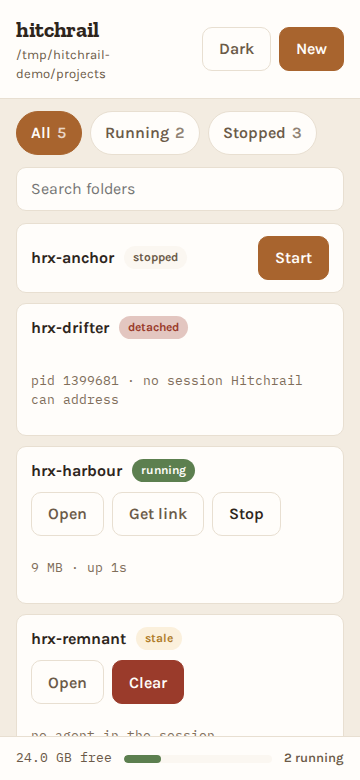
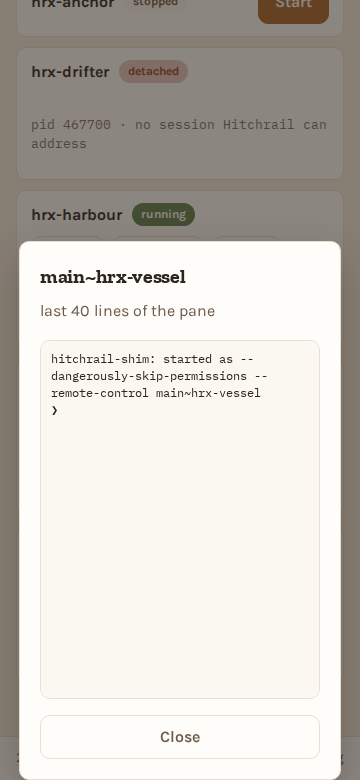
test(e2e): a capture that could not fail published the wrong screenshot for months
#215, the half that belongs to this phase. The pid half is a decision and is
left open on the ticket.

`phone-logs.png` was a copy of `phone-list.png`, verified against the committed
bytes rather than by eye. **The cause is one word.** `app.js:440` names the
control `Open`; the capture looked for `Logs`. So `logs.count()` was zero on
every run, the click was guarded rather than asserted, and the tier photographed
whatever was on screen and passed.

The assertion in this tier IS the picture, so a picture nothing checks is the
same rotten green as a test with no assertion. `_shoot` now takes a REQUIRED
`showing` locator, asserted visible before the shutter: a capture cannot be added
without naming what makes its image the thing it claims to be. Falsified by
reverting the control name, which now fails the capture instead of publishing.

**One image was wrong, not two, and the ticket is corrected rather than
followed.** `phone-new-folder.png` shows the sheet and always did; its test had
the same unsafe shape and happened to work because `New` is the right name. That
box is met by the test now failing if it stops showing the sheet.

Only `phone-logs.png` is recommitted. The other four recaptured images differ
purely from pid and uptime churn, which is the unreviewable diff the ticket
complains about, and adding four noise diffs to the commit that fixes one image
would be that same problem.

**An existing guard caught this change**, which is worth recording because it is
[…]

diff --git a/tests/e2e/test_screenshots.py b/tests/e2e/test_screenshots.py
@@ -54,7 +54,7 @@ import tempfile
 from collections.abc import Iterator
 
 import pytest
-from playwright.async_api import Page, ViewportSize, expect
+from playwright.async_api import Locator, Page, ViewportSize, expect
 
 from . import conftest as e2e_conftest
 from .conftest import SHOT_PREFIX, Harness
@@ -138,7 +138,27 @@ async def _settled(page: Page, harness: Harness) -> None:
     await page.wait_for_timeout(600)
 
 
-async def _shoot(page: Page, name: str) -> None:
+def row(page: Page, harness: Harness, name: str) -> Locator:
+    """The row for a seeded project, which is what most captures prove on."""
+    return page.locator(f'[data-project="{harness.project(name)}"]')
+
+
+async def _shoot(page: Page, name: str, showing: Locator) -> None:
+    """Photograph the page, having first proved it is showing the right thing.
+
+    **`showing` is required, and that is the fix for #215.** Two captures here
+    guarded their click with `if await control.count():` and then shot
+    regardless, so when the control was not found the tier photographed whatever
+    was on screen and passed. `phone-logs.png` shipped as a copy of
+    `phone-list.png` for months because of it: the control is named `Open`, not
+    `Logs`, so the count was zero every time.
+
+    The assertion in this tier IS the picture, and a picture nothing checks is
+    the same rotten green as a test with no assertion. Making the proof a
+    parameter rather than a convention means a new capture cannot be added
+    without naming what makes its image the thing it claims to be.
+    """
+    await expect(showing).to_be_visible()
     SHOTS.mkdir(parents=True, exist_ok=True)
     path = SHOTS / f"{name}.png"
 
@@ -172,7 +192,7 @@ async def test_capture_the_phone_list(page: Page, shots_server: Harness) -> None
     _seed_the_world(shots_server)
     await page.goto(shots_server.base)
     await _settled(page, shots_server)
-    await _shoot(page, "phone-list")
+    await _shoot(page, "phone-list", row(page, shots_server, "vessel"))
 
 
 async def test_capture_two_roots_on_a_phone(page: Page, shots_server: Harness) -> None:
@@ -201,7 +221,7 @@ async def test_capture_two_roots_on_a_phone(page: Page, shots_server: Harness) -
     for label in ("main", "personal"):
         row = page.locator(f'[data-project="{shots_server.project("vessel", label)}"]')
         await expect(row.locator(".badge")).to_have_text("running", timeout=15_000)
-    await _shoot(page, "phone-two-roots")
+    await _shoot(page, "phone-two-roots", page.locator("[data-project]").first)
 
 
 async def test_capture_the_phone_list_dark(page: Page, shots_server: Harness) -> None:
@@ -212,7 +232,7 @@ async def test_capture_the_phone_list_dark(page: Page, shots_server: Harness) ->
     _seed_the_world(shots_server)
     await page.goto(shots_server.base)
     await _settled(page, shots_server)
-    await _shoot(page, "phone-list-dark")
+    await _shoot(page, "phone-list-dark", row(page, shots_server, "vessel"))
 
 
 async def test_capture_the_desktop_list(page: Page, shots_server: Harness) -> None:
@@ -220,7 +240,7 @@ async def test_capture_the_desktop_list(page: Page, shots_server: Harness) -> No
     _seed_the_world(shots_server)
     await page.goto(shots_server.base)
     await _settled(page, shots_server)
-    await _shoot(page, "desktop-list")
+    await _shoot(page, "desktop-list", row(page, shots_server, "vessel"))
 
 
 async def test_capture_the_log_drawer(page: Page, shots_server: Harness) -> None:
@@ -229,12 +249,14 @@ async def test_capture_the_log_drawer(page: Page, shots_server: Harness) -> None
     _seed_the_world(shots_server)
     await page.goto(shots_server.base)
     await _settled(page, shots_server)
-    row = page.locator(f'[data-project="{shots_server.project("vessel")}"]')
-    logs = row.get_by_role("button", name="Logs")
-    if await logs.count():
-        await logs.first.click()
-        await page.wait_for_timeout(800)
-    await _shoot(page, "phone-logs")
+    # **`Open`, not `Logs`.** The control has never been called Logs; `app.js`
+    # names it `Open`. The old lookup found nothing every time, and because the
+    # click was guarded rather than asserted, the tier photographed the plain
+    # list and published it as the drawer (#215).
+    await row(page, shots_server, "vessel").get_by_role("button", name="Open").click()
+    drawer = page.locator("[data-dialog]")
+    await expect(drawer).to_contain_text("last 40 lines of the pane")
+    await _shoot(page, "phone-logs", drawer)
 
 
 async def test_capture_the_new_folder_sheet(page: Page, shots_server: Harness) -> None:
@@ -242,11 +264,10 @@ async def test_capture_the_new_folder_sheet(page: Page, shots_server: Harness) -
     _seed_the_world(shots_server)
     await page.goto(shots_server.base)
     await _settled(page, shots_server)
-    new = page.get_by_role("button", name="New")
-    if await new.count():
-        await new.first.click()
-        await page.wait_for_timeout(500)
-    await _shoot(page, "phone-new-folder")
+    await page.get_by_role("button", name="New").click()
+    sheet = page.locator("[data-dialog]")
+    await expect(sheet).to_contain_text("New folder")
+    await _shoot(page, "phone-new-folder", sheet)
 
 
 async def test_capture_the_grant_page(page: Page, shots_server: Harness) -> None:
@@ -255,4 +276,4 @@ async def test_capture_the_grant_page(page: Page, shots_server: Harness) -> None
     shots_server.seed(stopped=["vessel"], token="s3cret-key-value")
     await page.goto(f"{shots_server.base}/grant")
     await page.wait_for_timeout(600)
-    await _shoot(page, "phone-grant")
+    await _shoot(page, "phone-grant", page.get_by_label("Access key"))

diff --git a/tests/test_docs_are_true.py b/tests/test_docs_are_true.py
@@ -785,7 +785,11 @@ def test_every_shot_the_capture_declares_is_committed() -> None:
     comparison: that is flaky across font versions and a flaky gate is a
     disabled gate, which #105 says explicitly.
     """
-    declared = set(re.findall(r'_shoot\(page, "([a-z-]+)"\)', CAPTURE.read_text()))
+    # `[,)]` because #215 gave `_shoot` a required third argument, the locator
+    # that proves the page is showing what the shot claims. This regex expected
+    # exactly two and matched nothing, and the `assert declared` below is the
+    # only reason that was a failure rather than a silently empty check.
+    declared = set(re.findall(r'_shoot\(page, "([a-z-]+)"[,)]', CAPTURE.read_text()))
     assert declared, "the capture module declares no shots, so this checks nothing"
     missing = sorted(n for n in declared if not (SCREENSHOTS / f"{n}.png").exists())
     assert not missing, (

diff --git a/docs/superpowers/plans/2026-09-07-hitchrail-phase-10-suite.md b/docs/superpowers/plans/2026-09-07-hitchrail-phase-10-suite.md
@@ -274,7 +274,7 @@ Criterion 1. These are the tests that pass while what they name is broken.
       negative hoping for absence, and #230 records why a blanket guard on
       `wait_for_timeout` would have to carve it out.
 
-- [ ] **Task 48, #215.** Two published screenshots are wrong, and every capture
+- [x] **Task 48, #215.** Two published screenshots are wrong, and every capture
       ships a pid. The pid is a privacy leak into a tracked artefact; the wrong
       screenshots are a document contradicted by the thing it shows.
 
@@ -282,6 +282,35 @@ Criterion 1. These are the tests that pass while what they name is broken.
       arguably Phase 17. It stays here because the capture path is a fixture
       that produces an artefact, and the fix is to the capture, not to the
       prose.
+
+      **Done 2026-09-07, for the half that is this phase's. The pid half is a
+      decision, and it is left as one.**
+
+      The capture defect was one word: `app.js` names the control `Open`, the
+      capture looked for `Logs`, so the count was zero every time and the
+      guarded click was skipped. `_shoot` now takes a REQUIRED `showing`
+      locator, asserted visible before the shutter, so a capture cannot be
+      added without naming what makes its image the thing it claims to be.
+      Falsified by reverting the name: it fails instead of publishing.
+
+      **One image, not two.** `phone-new-folder.png` was not wrong; checked
+      against the committed bytes rather than taken from the ticket. It had the
+      unsafe shape and happened to work. Only `phone-logs.png` is recommitted:
+      the other four differ purely from pid and uptime churn, which is the
+      unreviewable diff the ticket complains about.
+
+      **The pid cannot be removed without removing the state.** Only `detached`
+      rows render one, and the `procs_fn` seam that looked like the answer is
+      not: `derive` walks the process TREE by pid while pane pids come from real
+      tmux, so a faked table would change the STATES the picture shows. So the
+      choice is to drop `detached` from the photographed world or to keep the
+      pid, which is a call about what the README shows. Recorded on the ticket
+      with both options; not taken here.
+
+      Caught by an existing guard, which is worth the line: the new third
+      argument broke `test_every_shot_the_capture_declares_is_committed`, whose
+      regex expected exactly two. It failed loudly rather than matching nothing
+      because it asserts `declared` is non-empty first.
 
 - [ ] **Task 49, #206.** The unit flag check crashes instead of failing when
       `ExecStart` is continued across lines. A guard that raises where it should
